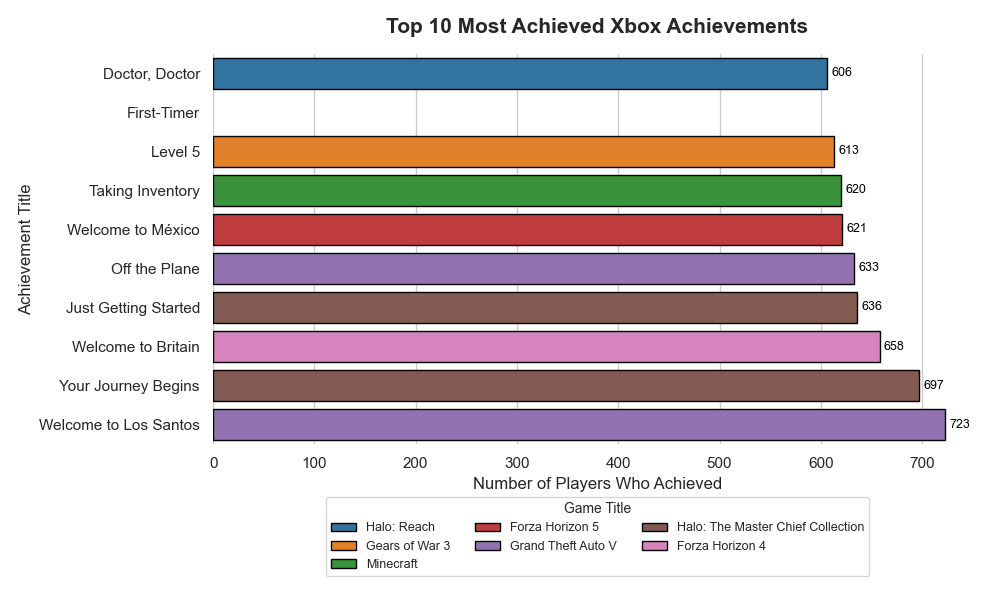
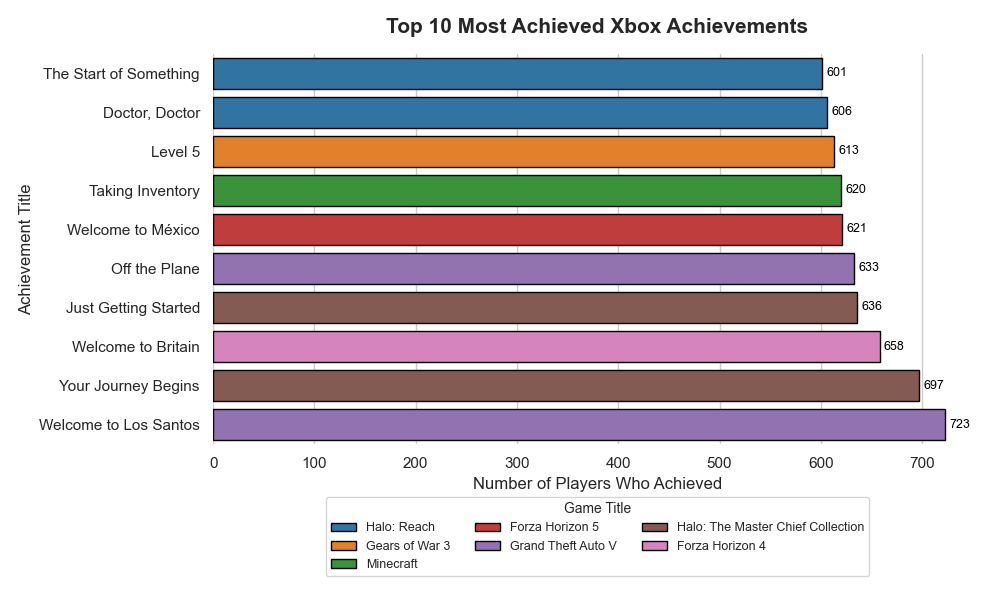
EDA complete

Changed region(s): [[0.093, 0.09, 0.868, 0.24], [0.062, 0.09, 0.217, 0.15]]

diff --git a/eda/eda.py b/eda/eda.py
@@ -2,9 +2,13 @@ import duckdb
 import pandas as pd
 import matplotlib.pyplot as plt
 import seaborn as sns
+from sklearn.preprocessing import normalize
+import umap
+import ast
 from pathlib import Path
 import matplotlib.dates as mdates
 from matplotlib.ticker import FuncFormatter
+from sklearn.cluster import MiniBatchKMeans
 
 #connect 
 db_path = Path("xbox_sample.duckdb")
@@ -204,7 +208,7 @@ ach_info = pd.merge(
 )
 
 # Get top 10
-top10 = ach_info.sort_values("num_players", ascending=False).head(10)
+top10 = ach_info.sort_values("num_players", ascending=False).dropna(subset=["game_title"]).head(10)
 
 plt.figure(figsize=(10,6))
 sns.set_theme(style="whitegrid")
@@ -329,3 +333,102 @@ leg = ax.legend(loc="upper center", bbox_to_anchor=(0.5, -0.12), ncol=2, frameon
 
 plt.tight_layout()
 plt.show()
+
+RANDOM_STATE= 42
+MIN_OWNERS_PER_GAME = 5 
+N_CLUSTERS = 6 
+N_NEIGHBORS = 20
+MIN_DIST = 0.1 
+
+games["gameid"] = games["gameid"].astype(str)
+
+# Build interaction matrix
+purchases["library"] = purchases["library"].apply(ast.literal_eval)
+
+# explode to (playerid, gameid) rows
+purchases_expanded = purchases.explode("library").rename(columns={"library": "gameid"})
+purchases_expanded["gameid"] = purchases_expanded["gameid"].astype(str)
+
+# filter out ultra-rare games
+owners_per_game = purchases_expanded.groupby("gameid")["playerid"].nunique()
+keep_games = owners_per_game[owners_per_game >= MIN_OWNERS_PER_GAME].index
+purchases_expanded = purchases_expanded[purchases_expanded["gameid"].isin(keep_games)]
+
+# player x game binary matrix
+matrix = pd.crosstab(
+    purchases_expanded["playerid"],
+    purchases_expanded["gameid"]
+)
+
+# L2-normalize rows so whales don't dominate
+matrix_norm = normalize(matrix, norm="l2")  
+
+# UMAP (on games)
+# transpose -> games x players
+reducer = umap.UMAP(
+    n_neighbors=N_NEIGHBORS,
+    min_dist=MIN_DIST,
+    metric="cosine",
+    random_state=RANDOM_STATE
+)
+embedding = reducer.fit_transform(matrix_norm.T)
+
+# dataframe of embedded games
+umap_df = pd.DataFrame(embedding, columns=["x", "y"])
+umap_df["gameid"] = matrix.columns.astype(str)
+
+# attach titles/genres
+umap_df = umap_df.merge(games[["gameid", "title", "genres"]], on="gameid", how="left")
+
+#parse genres into list
+def parse_genres(g):
+    if pd.isna(g): 
+        return []
+    if isinstance(g, str) and g.startswith("["):
+        try:
+            out = ast.literal_eval(g)
+            return [str(s).strip() for s in out]
+        except Exception:
+            pass
+    if isinstance(g, str):
+        return [s.strip() for s in g.replace("|", ",").split(",") if s.strip()]
+    return []
+
+umap_df["genre_list"] = umap_df["genres"].apply(parse_genres)
+
+# CLUSTER IN 2-D
+km = MiniBatchKMeans(n_clusters=N_CLUSTERS, random_state=RANDOM_STATE, batch_size=2048)
+umap_df["cluster"] = km.fit_predict(umap_df[["x", "y"]])
+
+# cluster summary: size, top 3 genres, example titles
+rows = []
+for c, grp in umap_df.groupby("cluster"):
+    all_genres = pd.Series([g for lst in grp["genre_list"] for g in lst])
+    top_genres = ", ".join(all_genres.value_counts().head(3).index.tolist()) or "—"
+    sample_titles = ", ".join(grp["title"].dropna().head(3).tolist())
+    rows.append(dict(cluster=c, n=len(grp), top_genres=top_genres, example_titles=sample_titles))
+cluster_summary = pd.DataFrame(rows).sort_values("n", ascending=False)
+print("\n=== Cluster Summary ===")
+print(cluster_summary.to_string(index=False))
+
+sns.set_context("talk")
+sns.set_style("whitegrid")
+
+# Plot with cluster labels (top genres) at centroids
+centroids = umap_df.groupby("cluster")[["x", "y"]].median().reset_index()
+labels_map = cluster_summary.set_index("cluster")["top_genres"]
+
+plt.figure(figsize=(10, 8))
+sns.scatterplot(
+    data=umap_df, x="x", y="y", hue="cluster",
+    palette=sns.color_palette("tab20", n_colors=N_CLUSTERS), s=14, linewidth=0, alpha=0.7, legend=False
+)
+for _, row in centroids.iterrows():
+    c = int(row["cluster"])
+    txt = f"C{c}: {labels_map.get(c, '—')}"
+    plt.text(row["x"], row["y"], txt, fontsize=9, weight="bold",
+             ha="center", va="center",
+             bbox=dict(boxstyle="round,pad=0.2", fc="white", ec="gray", alpha=0.75))
+plt.title("UMAP with cluster labels (top genres)", weight="bold")
+plt.xlabel("UMAP 1"); plt.ylabel("UMAP 2")
+plt.tight_layout(); plt.show()
